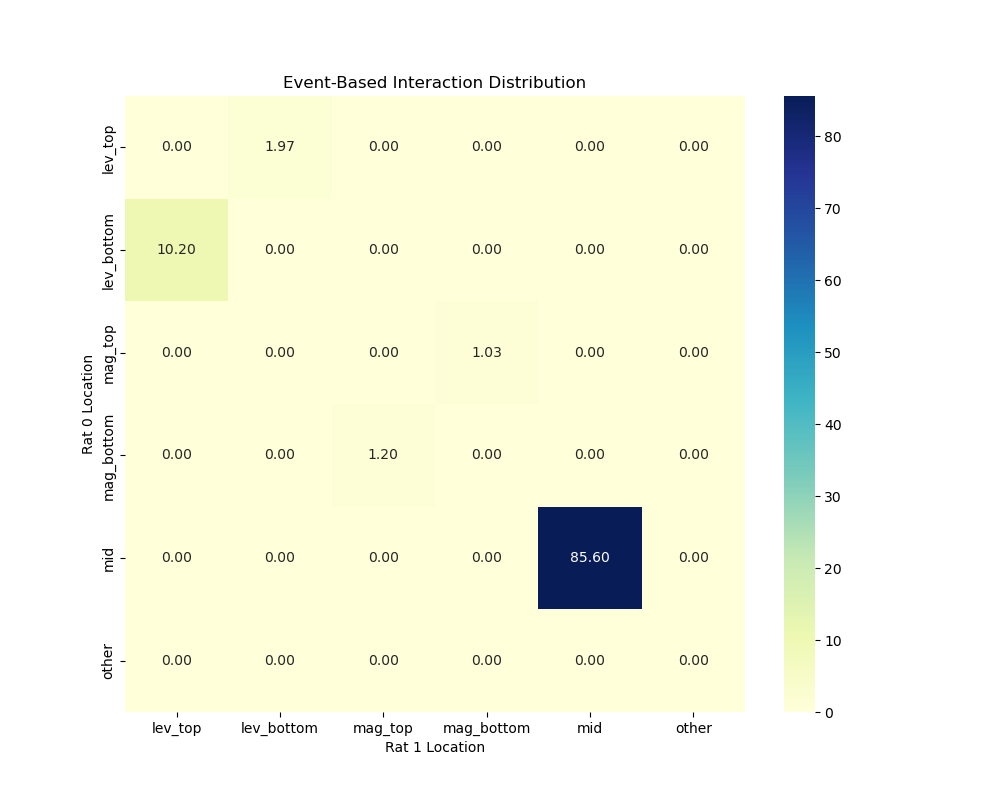
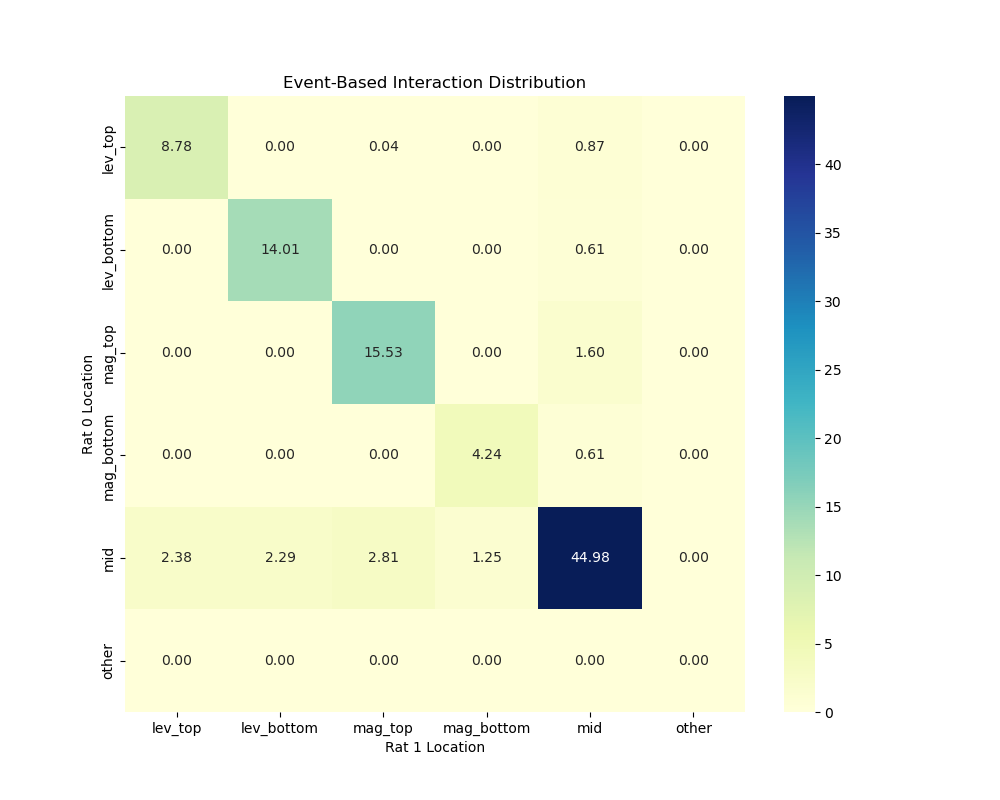
test all filtered percentages

diff --git a/David/Behavioral_Quantification/Scripts/graph_creator.py b/David/Behavioral_Quantification/Scripts/graph_creator.py
@@ -6332,8 +6332,7 @@ totFramesList = [15000, 15000]
 initialNanList = [0.15, 0.12]
 '''
 
-
-
+'''
 arr = getFiltered()
 #arr = getAllTrainingCoop()
 #arr = getFiberPhoto()
@@ -6344,7 +6343,7 @@ fpsList = arr[3]
 totFramesList = arr[4]
 initialNanList = arr[5]
 #fiberPhoto = arr[6]
-
+'''
 
 
 '''
@@ -6368,8 +6367,9 @@ pos_files = ["/Users/david/Documents/Research/Saxena_Lab/rat-cooperation/David/B
 
 
 print("Start MultiFileGraphs Regular")
-experiment = multiFileGraphs(mag_files, lev_files, pos_files, fpsList, totFramesList, initialNanList, prefix = "", save=True)
-experiment.whatCausesSuccessRegions()
+#experiment = multiFileGraphs(mag_files, lev_files, pos_files, fpsList, totFramesList, initialNanList, prefix = "", save=True)
+
+#experiment.whatCausesSuccessRegions()
 #experiment.wallAnxietyMetrics()
 #experiment.determineIllegalLeverPresses()
 #experiment.successVsAverageDistance()
@@ -6383,6 +6383,22 @@ experiment.whatCausesSuccessRegions()
 #experiment.waitingStrategy()
 
 
+
+print("Running UF vs TP")
+dataTP = getOnlyTrainingPartners() #Training Partners
+
+arr = getFiltered()
+#arr = getAllTrainingCoop()
+#arr = getFiberPhoto()
+lev_files = arr[0]
+mag_files = arr[1]
+pos_files = arr[2]
+
+levFiles = [arr[0], dataTP[0]]
+magFiles = [arr[1], dataTP[1]]
+posFiles = [arr[2], dataTP[2]]
+categoryExperiments = multiFileGraphsCategories(magFiles, levFiles, posFiles, ["Unfamiliar", "Training Partners"])
+categoryExperiments.compareSuccesfulTrials()
 
 
 # ---------------------------------------------------------------------------------------------------------
